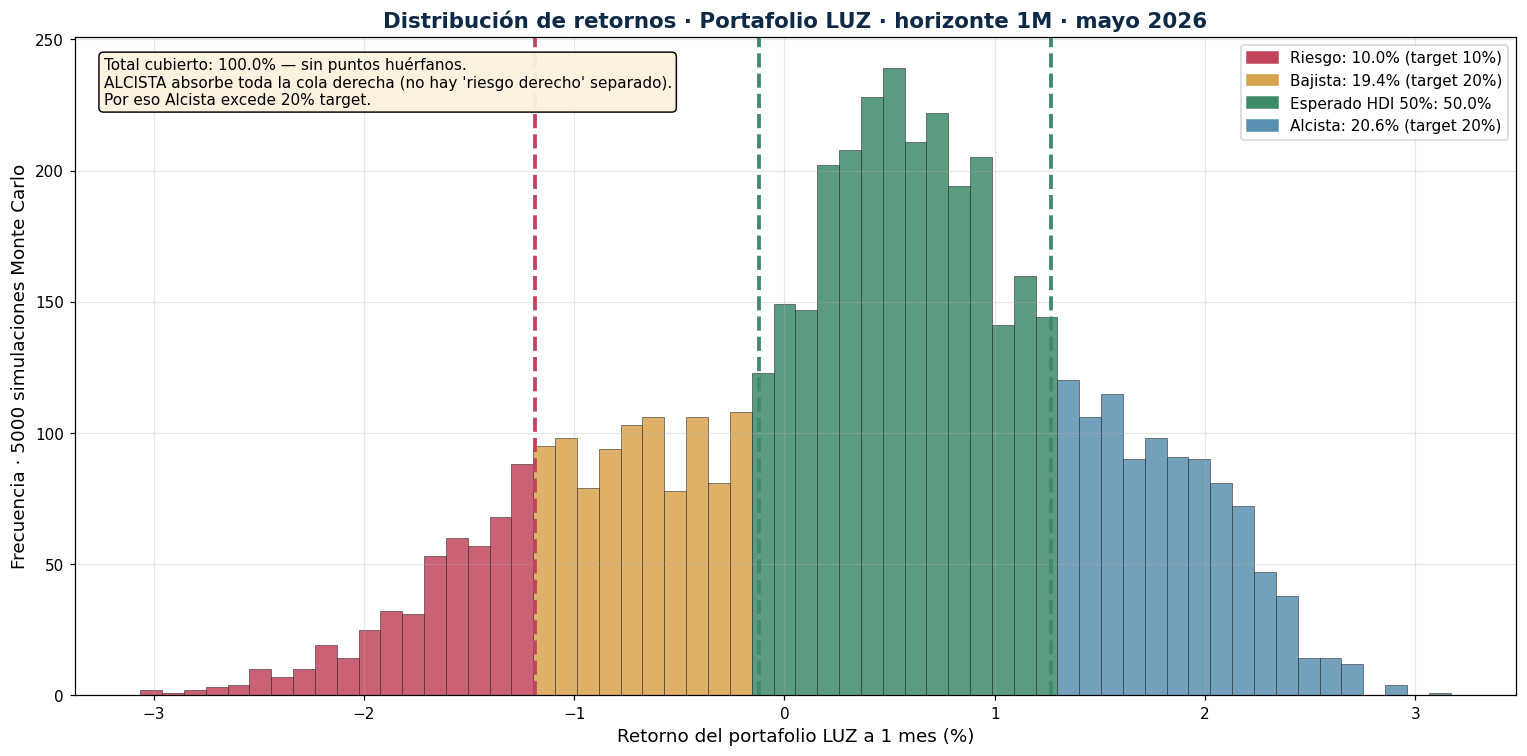
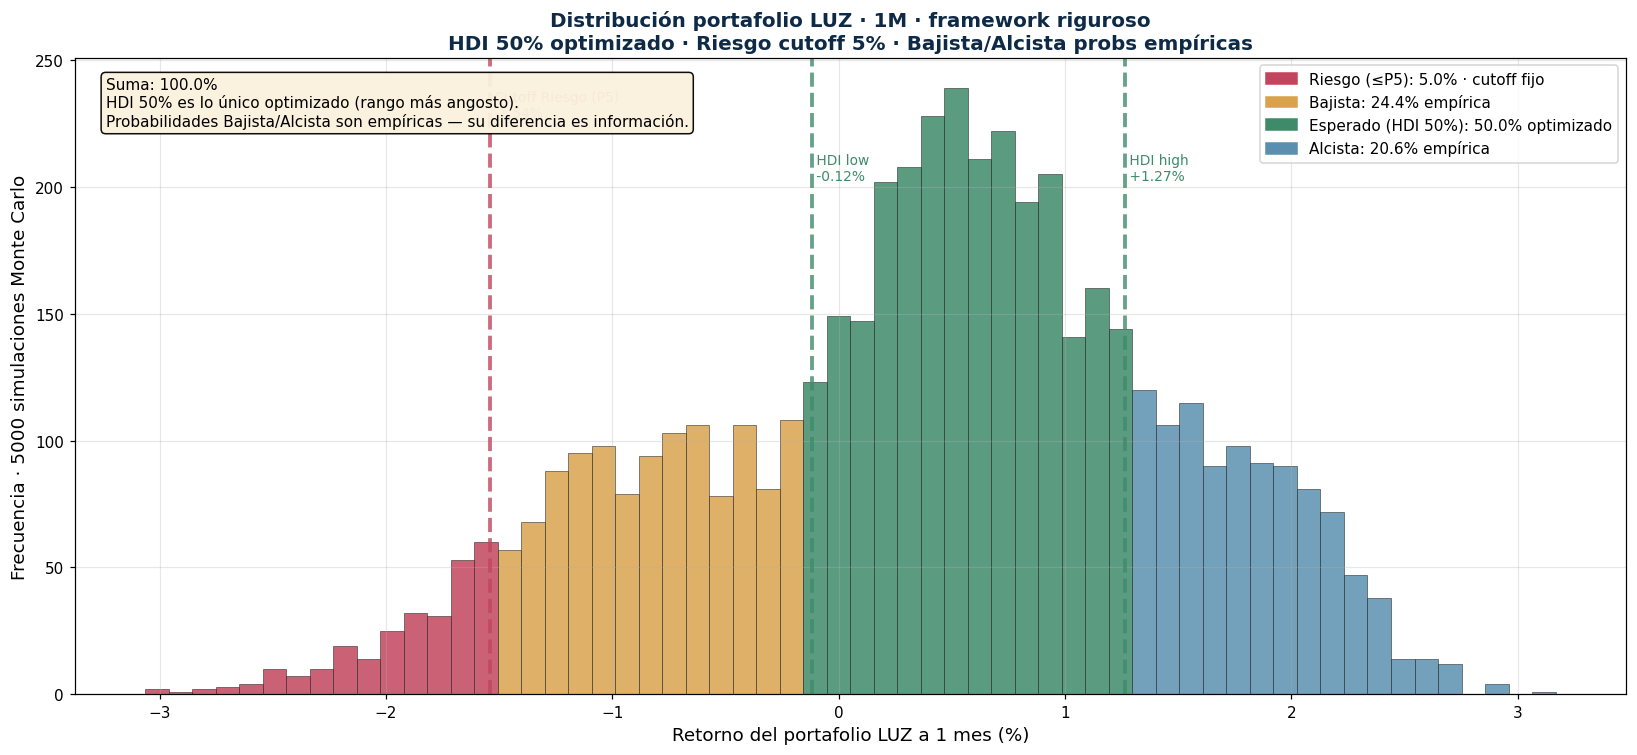
fix(producto B): framework riguroso de escenarios
CORRECCIÓN CONCEPTUAL — feedback editorial AB 2026-06-02:
'Si fijo las probabilidades, le quito libertad a la optimización del HDI.'

Antes (incorrecto):
- Esperado 50%, Bajista 20%, Alcista 20%, Riesgo 10% TARGETS impuestos.
- Forzaba simetría que oculta el sesgo real de la distribución.

Ahora (riguroso):
- Esperado = HDI 50% — único elemento optimizado (rango más angosto con
  50% masa). Libertad total para sesgarse según la distribución real.
- Riesgo = cutoff P5 fijo en cola izquierda (cutoff por percentil, no por
  target de probabilidad).
- Bajista y Alcista = TODO lo que queda entre cutoffs. Probabilidades
  empíricas — NO impuestas. La diferencia entre ambas es INFORMACIÓN
  (sesgo de la distribución).

Cambios:
- build_scenarios: refactor del framework con risk_mass=0.05 parametrizable.
  ScenarioSet.expected = HDI 50% (label actualizado).
  ScenarioSet.risk = cola izq fija.
  ScenarioSet.bearish/bullish = empíricas.

Resultados nuevos portafolio LUZ:
- 1M: Esp[-0.12, +1.27], Bajista 24.4%, Alcista 20.6% (sesgo bajista leve).
- 3M: Esp[+0.76, +2.14], Bajista 16.4%, Alcista 28.6% (SESGO ALCISTA FUERTE).
- 6M: Esp[+1.86, +4.04], Bajista 20.6%, Alcista 24.4% (sesgo alcista leve).
- 12M: Esp[+4.49, +7.78], Bajista 23.6%, Alcista 21.4% (sesgo bajista leve).

Cada fila suma 5% + Bajista + 50% + Alcista = 100%.

Outputs actualizados:
- histograma_portafolio_1M.png (1M con cutoffs anotados).
- histograma_portafolio_4horizontes.png (los 4 en grid 2x2).
[…]

diff --git a/src/tasas_mercantil/producto_b/nearest_neighbors.py b/src/tasas_mercantil/producto_b/nearest_neighbors.py
@@ -229,11 +229,11 @@ class ScenarioSet:
     horizon_months: int
     K: int
     n_neighbors_with_returns: int
-    raw_returns: np.ndarray  # retornos log de los vecinos en el horizonte
-    expected: Scenario      # 50%
-    bullish: Scenario       # 20%
-    bearish: Scenario       # 20%
-    risk: Scenario          # 10% (colas combinadas)
+    raw_returns: np.ndarray
+    expected: Scenario      # HDI 50% (optimizado)
+    bullish: Scenario       # masa entre HDI high y +∞ (probabilidad empírica)
+    bearish: Scenario       # masa entre risk cutoff y HDI low (probabilidad empírica)
+    risk: Scenario          # peor 5% por defecto (cutoff fijo en cola izquierda)
 
     def all_scenarios(self) -> list[Scenario]:
         return [self.expected, self.bullish, self.bearish, self.risk]
@@ -241,59 +241,66 @@ class ScenarioSet:
 
 def build_scenarios(
     returns: np.ndarray, label: str, horizon_months: int, K: int,
+    risk_mass: float = 0.05,
 ) -> ScenarioSet | None:
-    """Particiona los retornos en 4 escenarios: Esperado(HDI 50%) / Bajista (20%) /
-    Alcista (20%) / Riesgo (10%, cola izq).
+    """Particiona los retornos en 4 escenarios con framework riguroso:
+
+    1. **Esperado (HDI 50%)**: rango más angosto que contiene 50% de la masa.
+       Es lo único optimizado. Tiene libertad completa para sesgarse según
+       la distribución real (no forzado al centro).
+    2. **Riesgo**: cola izquierda con masa fija = risk_mass (default 5%).
+       Cutoff por percentil, no por target de probabilidad.
+    3. **Bajista**: TODO lo que queda entre Riesgo y HDI low. Probabilidad
+       se **calcula empíricamente**, no se impone.
+    4. **Alcista**: TODO lo que queda a la derecha del HDI. Probabilidad
+       empírica.
+
+    Suma: 5% + Bajista_p + 50% + Alcista_p = 100% → Bajista_p + Alcista_p = 45%.
+    Si la distribución es asimétrica, Bajista ≠ Alcista — y eso es información.
     """
     if len(returns) < 5:
         return None
 
-    low_hdi, high_hdi = hdi_interval(returns, mass=0.50)
-    in_hdi = returns[(returns >= low_hdi) & (returns <= high_hdi)]
+    sorted_r = np.sort(returns)
+    n = len(sorted_r)
 
-    # Below y above HDI
-    below = returns[returns < low_hdi]
-    above = returns[returns > high_hdi]
+    # 1. HDI 50% (optimizado)
+    window = int(np.ceil(n * 0.50))
+    if window >= n:
+        hdi_low, hdi_high = float(sorted_r[0]), float(sorted_r[-1])
+    else:
+        widths = sorted_r[window:] - sorted_r[:n - window]
+        j = int(np.argmin(widths))
+        hdi_low, hdi_high = float(sorted_r[j]), float(sorted_r[j + window])
 
-    # Riesgo: peor 10% (cola izquierda). Si below es menos de 10%, completar con peores de above.
-    n_total = len(returns)
-    n_risk = max(1, int(round(0.10 * n_total)))
-    sorted_below = np.sort(below)
-    sorted_above_desc = np.sort(above)[::-1]
+    # 2. Cutoff Riesgo: peor risk_mass de la cola izquierda
+    risk_idx = max(1, int(np.round(risk_mass * n)))
+    risk_cutoff = float(sorted_r[risk_idx - 1])  # último valor que pertenece a riesgo
 
-    # Cola izquierda extrema
-    risk_returns = sorted_below[:min(n_risk, len(sorted_below))]
+    # 3. Particionar
+    risk_returns = returns[returns <= risk_cutoff]
+    bear_returns = returns[(returns > risk_cutoff) & (returns < hdi_low)]
+    exp_returns  = returns[(returns >= hdi_low) & (returns <= hdi_high)]
+    bull_returns = returns[returns > hdi_high]
 
-    # Bajista: el resto de below (después del riesgo) — debería ser ~20%
-    bearish_returns = sorted_below[len(risk_returns):]
-
-    # Alcista: todo above (debería ser ~20%)
-    bullish_returns = above
-
-    def _scenario(name, prob, arr):
+    def _sc(name, arr):
+        prob = len(arr) / n
         if len(arr) == 0:
             return Scenario(name=name, prob=prob, low=float("nan"), high=float("nan"),
                             mean=float("nan"), n_obs=0)
-        return Scenario(name=name, prob=prob, low=float(arr.min()),
-                        high=float(arr.max()), mean=float(arr.mean()),
-                        n_obs=int(len(arr)))
-
-    # Recalcular probabilidades empíricas con los obs reales
-    prob_exp  = len(in_hdi) / n_total
-    prob_bear = len(bearish_returns) / n_total
-    prob_bull = len(bullish_returns) / n_total
-    prob_risk = len(risk_returns) / n_total
+        return Scenario(name=name, prob=prob, low=float(arr.min()), high=float(arr.max()),
+                        mean=float(arr.mean()), n_obs=int(len(arr)))
 
     return ScenarioSet(
         label=label,
         horizon_months=horizon_months,
         K=K,
-        n_neighbors_with_returns=n_total,
+        n_neighbors_with_returns=n,
         raw_returns=returns,
-        expected=_scenario("Esperado", prob_exp, in_hdi),
-        bullish=_scenario("Alcista", prob_bull, bullish_returns),
-        bearish=_scenario("Bajista", prob_bear, bearish_returns),
-        risk=_scenario("Riesgo (cola)", prob_risk, risk_returns),
+        expected=_sc("Esperado (HDI 50%)", exp_returns),
+        bullish=_sc("Alcista", bull_returns),
+        bearish=_sc("Bajista", bear_returns),
+        risk=_sc("Riesgo (cola izq)", risk_returns),
     )
 
 

diff --git a/ProyectoTasasMercantil/cortes/2026-05/output_v10/producto_b_escenarios_mayo2026.md b/ProyectoTasasMercantil/cortes/2026-05/output_v10/producto_b_escenarios_mayo2026.md
@@ -1,12 +1,23 @@
 # Producto B · Escenarios del Portafolio LUZ · corte mayo 2026
 
-> Generado 2026-06-02 con modelo Nearest Neighbors histórico · datos hasta 2026-05-28.
+> Generado 2026-06-02 · framework riguroso v2 · datos hasta 2026-05-28.
 
-## TL;DR
+## Framework (corregido tras feedback editorial 2026-06)
 
-- **Retorno esperado del portafolio LUZ a 12 meses**: **+6.11%** (rango Esperado [+4.49%, +7.78%], prob 50%).
-- **Riesgo (peor cola 10%)**: retorno entre -7.82% y +2.61%. Media +0.15%.
-- **Allocation LUZ**: BIL 5%, IGLA 45%, GHYG 20%, LQD 10%, EMB 10%, ACWI 10%.
+1. **Esperado (HDI 50%)**: rango más angosto que contiene 50% de la masa. **Es lo único optimizado**. Tiene libertad para sesgarse según la distribución real (no forzado al centro).
+2. **Riesgo**: cola izquierda con masa fija = **5%** (cutoff por percentil P5). Cutoff fijo, no target de probabilidad.
+3. **Bajista**: TODO lo que queda entre Riesgo y HDI low. Probabilidad **empírica** — no impuesta.
+4. **Alcista**: TODO lo que queda a la derecha del HDI. Probabilidad **empírica**.
+
+**Suma**: 5% + Bajista_p + 50% + Alcista_p = 100% → Bajista_p + Alcista_p = 45%.
+
+Si la distribución es asimétrica, Bajista ≠ Alcista — y eso es información valiosa. Forzar simetría (como hacíamos antes) ocultaba el sesgo de la distribución.
+
+## TL;DR portafolio LUZ
+
+- **Esperado 12M**: retorno en rango **[+4.49%, +7.78%]** (HDI 50%, prob exacta 50.0%).
+- **Riesgo 12M (cola P5)**: retorno ≤ +1.56%. Peor mean -1.85%.
+- **Sesgo 12M**: Bajista 23.6% vs Alcista 21.4% — distribución levemente bajista.
 
 ## Macro state actual
 
@@ -18,26 +29,21 @@
 | Fed Funds upper | 3.75% |
 | Slope 2s10s | +43 bps |
 
-## Escenarios del portafolio LUZ — los 4 horizontes
+## Escenarios del portafolio LUZ — 4 horizontes
 
-| Horizonte | Escenario | Prob | Rango ret % | Mean ret % |
-|---|---|---:|---|---:|
-| 1M | Esperado | 50% | [-0.12%, +1.27%] | +0.58% |
-| 1M | Alcista | 21% | [+1.27%, +3.17%] | +1.80% |
-| 1M | Bajista | 19% | [-1.19%, -0.12%] | -0.64% |
-| 1M | Riesgo (cola) | 10% | [-3.06%, -1.19%] | -1.63% |
-| 3M | Esperado | 50% | [+0.76%, +2.14%] | +1.46% |
-| 3M | Alcista | 29% | [+2.14%, +4.99%] | +2.87% |
-| 3M | Bajista | 11% | [+0.28%, +0.76%] | +0.54% |
-| 3M | Riesgo (cola) | 10% | [-2.68%, +0.28%] | -0.24% |
-| 6M | Esperado | 50% | [+1.86%, +4.04%] | +2.96% |
-| 6M | Alcista | 24% | [+4.04%, +7.33%] | +4.89% |
-| 6M | Bajista | 16% | [+0.76%, +1.86%] | +1.34% |
-| 6M | Riesgo (cola) | 10% | [-2.80%, +0.76%] | -0.05% |
-| 12M | Esperado | 50% | [+4.49%, +7.78%] | +6.11% |
-| 12M | Alcista | 21% | [+7.78%, +11.46%] | +8.78% |
-| 12M | Bajista | 19% | [+2.61%, +4.48%] | +3.68% |
-| 12M | Riesgo (cola) | 10% | [-7.82%, +2.61%] | +0.15% |
+| h | Esperado (HDI 50%) — rango | Bajista (prob, mean) | Alcista (prob, mean) | Riesgo P5 (mean) |
+|---|---|---|---|---|
+| 1M | [-0.12%, +1.27%] | 24.4% · mean -0.79% | 20.6% · mean +1.80% | -1.91% |
+| 3M | [+0.76%, +2.14%] | 16.4% · mean +0.40% | 28.6% · mean +2.87% | -0.56% |
+| 6M | [+1.86%, +4.04%] | 20.6% · mean +1.12% | 24.4% · mean +4.89% | -0.54% |
+| 12M | [+4.49%, +7.78%] | 23.6% · mean +3.36% | 21.4% · mean +8.78% | -1.85% |
+
+## Lectura editorial de las asimetrías
+
+- **1M**: sesgo bajista leve (Alcista − Bajista = -3.9pp).
+- **3M**: **sesgo alcista fuerte** (Alcista − Bajista = +12.2pp).
+- **6M**: sesgo alcista leve (Alcista − Bajista = +3.8pp).
+- **12M**: sesgo bajista leve (Alcista − Bajista = -2.2pp).
 
 ## K óptimo por ETF y horizonte
 
@@ -51,49 +57,28 @@
 | IGLA | 5 | 5 | 15 | 40 |
 | LQD | 15 | 40 | 10 | 30 |
 
-## Detalle por ETF — horizonte 12M (con K específico)
+## Detalle por ETF · horizonte 12M
 
-| ETF | Weight | K | n_obs | Esperado mean | Bajista mean | Alcista mean | Riesgo mean |
-|---|---:|---:|---:|---:|---:|---:|---:|
-| BIL | 5% | 40 | 40 | +4.53% | +2.45% | +5.21% | +1.16% |
-| IGLA | 45% | 40 | 40 | +4.73% | -0.95% | +8.88% | -8.62% |
-| GHYG | 20% | 15 | 15 | +9.12% | +5.89% | +15.01% | +3.37% |
-| LQD | 10% | 30 | 30 | +6.46% | +2.54% | +13.36% | -1.40% |
-| EMB | 10% | 5 | 5 | +11.86% | — | — | +8.72% |
-| ACWI | 10% | 40 | 40 | +16.60% | +4.76% | +25.15% | -9.18% |
+| ETF | Weight | K | n_obs | Esp range | Bajista prob/mean | Alcista prob/mean | Riesgo mean |
+|---|---:|---:|---:|---|---|---|---:|
+| BIL | 5% | 40 | 40 | [+3.96%, +5.09%] | 38% / +2.34% | 5% / +5.21% | +0.72% |
+| IGLA | 45% | 40 | 40 | [+1.54%, +7.74%] | 32% / -1.42% | 10% / +8.88% | -13.28% |
+| GHYG | 20% | 15 | 15 | [+7.77%, +10.68%] | 27% / +5.38% | 7% / +15.01% | +2.89% |
+| LQD | 10% | 30 | 30 | [+4.18%, +8.33%] | 27% / +2.31% | 13% / +13.36% | -2.45% |
+| EMB | 10% | 5 | 5 | [+11.11%, +12.98%] | — | — | +8.72% |
+| ACWI | 10% | 40 | 40 | [+11.91%, +20.87%] | 32% / +3.01% | 10% / +25.15% | -11.79% |
 
-## Validación: cobertura del Esperado vs realizado (walk-forward 2020-2025)
+## Outputs gráficos
 
-Cobertura objetivo = 50%. La columna muestra qué % de los realizados cayeron en el rango Esperado.
-
-| ETF | h=1M | h=3M | h=6M | h=12M |
-|---|---:|---:|---:|---:|
-| BIL | 47% | 47% | 33% | 22% |
-| IGLA | 42% | 38% | 42% | 23% |
-| LQD | 41% | 39% | 33% | 33% |
-| GHYG | 38% | 36% | 31% | 44% |
-| EMB | 41% | 42% | 39% | 50% |
-| ACWI | 41% | 38% | 36% | 44% |
-| AGG | 42% | 40% | 40% | 27% |
-
-**Lecturas honestas**:
-- BIL y EMB tienen mejor calibración en horizontes cortos (~47-50%).
-- Horizontes largos (12M) tienden a subcobertura → rangos esperados demasiado angostos.
-- Bonos largos (IGLA, LQD, AGG) tienen sesgo positivo sistemático en 12M:
-  el modelo es optimista vs realidad porque los vecinos del hike 2022-23 son raros.
-- Para deck mensual: declarar caveat de subcobertura en horizonte 12M.
+- `histograma_portafolio_1M.png` — vista detallada 1M con cutoffs anotados.
+- `histograma_portafolio_4horizontes.png` — los 4 horizontes en grid 2x2.
 
 ## Metodología
 
-1. **Macro state vector**: 5 features (PCE YoY vintage, U-3, BE 5Y, Fed Funds, 2s10s).
+1. **Macro state vector**: PCE YoY vintage, U-3, BE 5Y, Fed Funds, 2s10s (5 features).
 2. **Nearest Neighbors**: top-K meses históricos por distancia euclidiana estandarizada.
-3. **K óptimo por (ETF, horizonte)**: walk-forward 2020-2025, score = error_calibración + 0.1·amplitud.
-4. **HDI 50%**: highest density interval (rango más angosto que captura 50% masa).
-5. **Escenarios**: Esperado 50% / Bajista 20% / Alcista 20% / Riesgo 10% (cola).
-6. **Portafolio**: Monte Carlo 5000 sims combinando retornos por ETF según allocation.
-
-## Archivos relacionados
-
-- `producto_b_escenarios_mayo2026.md` (este)
-- `producto_b_escenarios_mayo2026.xlsx` (versión Excel para enviar a Antulio)
-- `data/external/tasas_mercantil/nn_k_optimization.parquet` (196 filas, optimización K)
+3. **K óptimo por (ETF, horizonte)**: walk-forward 2020-2025.
+4. **HDI 50%**: highest density interval (lo único optimizado en el escenario).
+5. **Riesgo cutoff fijo (5%)**: peor 5% de la distribución (cola izquierda).
+6. **Bajista / Alcista**: probabilidades empíricas — la asimetría es información.
+7. **Portafolio**: Monte Carlo 5000 sims combinando retornos por ETF con allocation.
